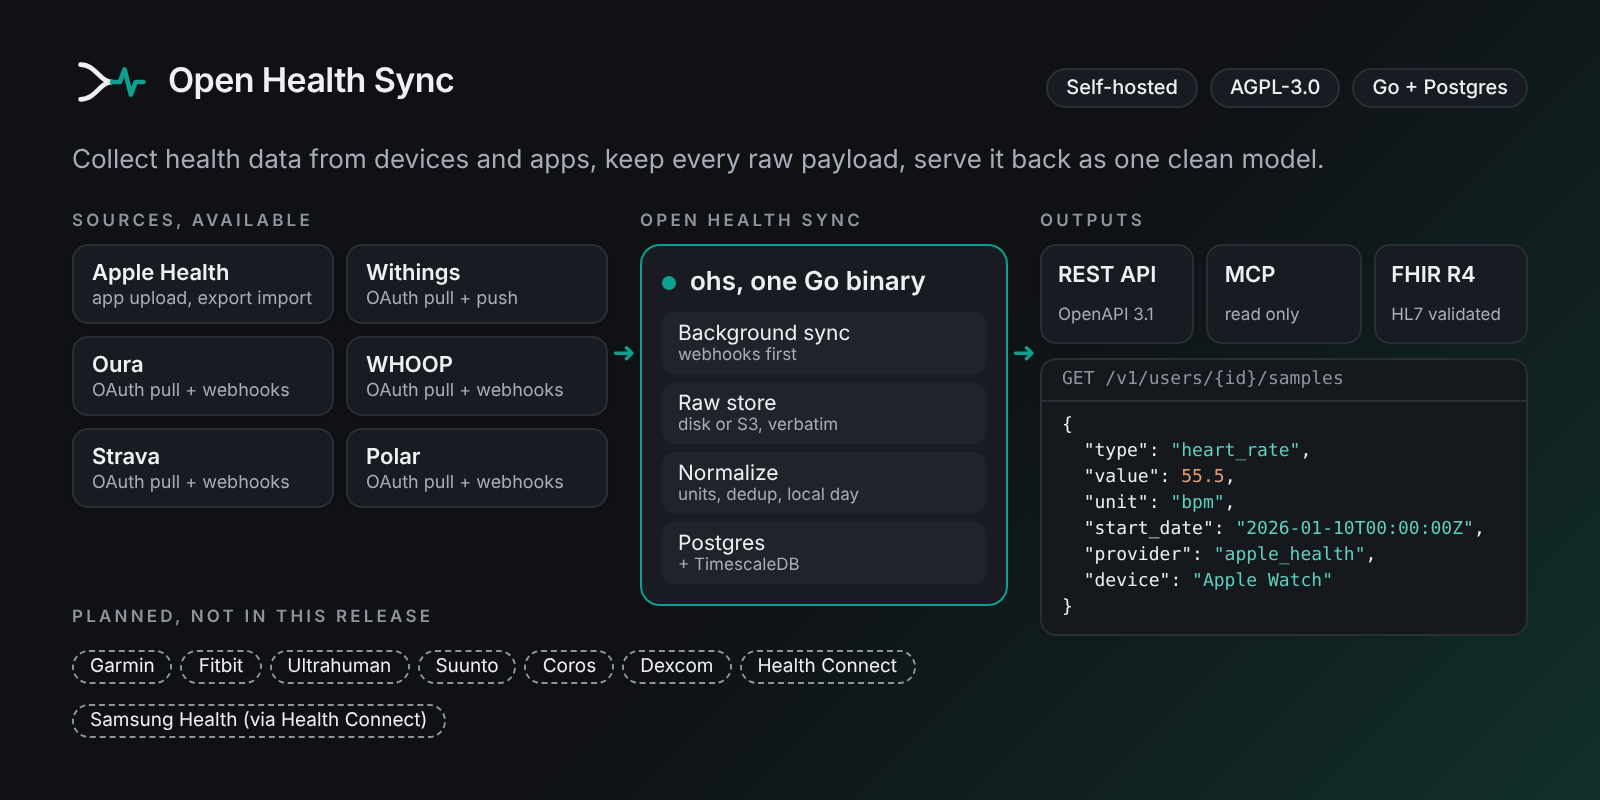
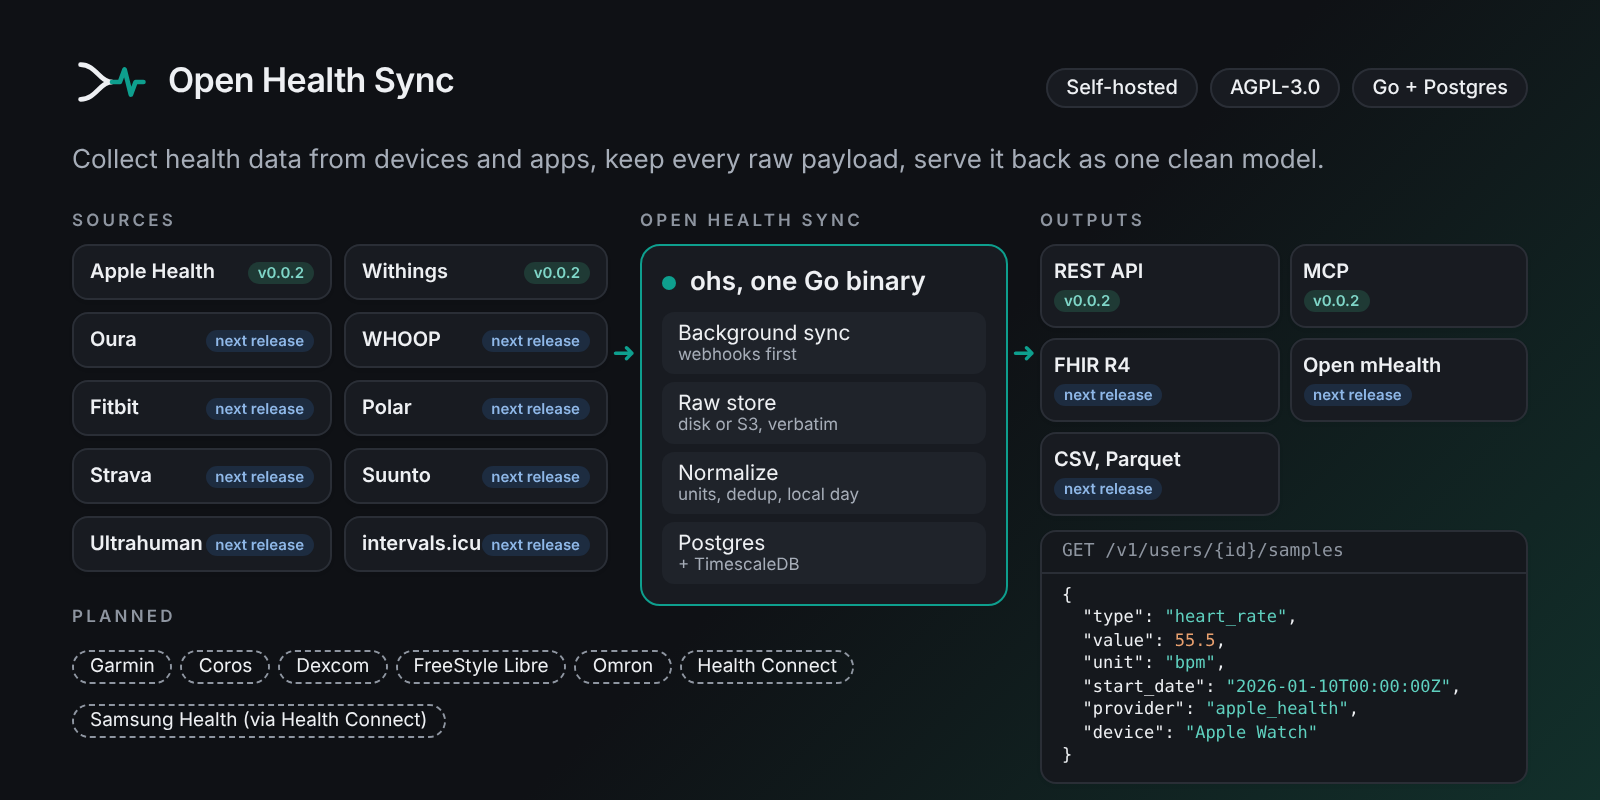
docs(readme): ten sources after #34, Garmin still planned, hero marks what is in v0.0.2

diff --git a/README.md b/README.md
@@ -1,7 +1,7 @@
 <a href="#quickstart">
 <picture>
   <source media="(prefers-color-scheme: dark)" srcset="docs/assets/readme/hero-dark.png">
-  <img src="docs/assets/readme/hero-light.png" width="100%" alt="Open Health Sync: six available sources (Apple Health, Withings, Oura, WHOOP, Strava, Polar) flow into one Go binary (background sync, raw store, normalize, Postgres) and out as a REST API, a read-only MCP server and FHIR R4. Garmin, Fitbit, Ultrahuman, Suunto, Coros, Dexcom, Health Connect and Samsung Health via Health Connect are listed as planned, not in this release. The JSON shown is a real heart rate sample read back from the API.">
+  <img src="docs/assets/readme/hero-light.png" width="100%" alt="Open Health Sync: ten sources flow into one Go binary (background sync, raw store, normalize, Postgres). Apple Health and Withings are in v0.0.2; Oura, WHOOP, Fitbit, Polar, Strava, Suunto, Ultrahuman and intervals.icu ship in the next release. Outputs: REST API and read-only MCP in v0.0.2; FHIR R4, Open mHealth and CSV/Parquet exports in the next release. Garmin, Coros, Dexcom, FreeStyle Libre, Omron, Health Connect and Samsung Health via Health Connect are planned. The JSON shown is a real heart rate sample read back from the API.">
 </picture>
 </a>
 
@@ -11,7 +11,7 @@
 
 ### One open API for wearable and health data. On your own server.
 
-Apple Health, Withings, Oura, WHOOP, Strava and Polar in.<br>
+Apple Health, Withings, Oura, WHOOP, Fitbit, Polar, Strava, Suunto, Ultrahuman and intervals.icu in.<br>
 One clean model out, over REST, a read-only MCP server for AI agents, and FHIR R4.<br>
 Free, one Go binary plus Postgres, runs on a Raspberry Pi.
 
@@ -29,8 +29,11 @@ Free, one Go binary plus Postgres, runs on a Raspberry Pi.
 <a href="docs/connectors/whoop.md"><img alt="WHOOP: next release" src="https://img.shields.io/badge/WHOOP-next_release-3b82c4?style=flat-square"></a>
 <a href="docs/connectors/strava.md"><img alt="Strava: next release" src="https://img.shields.io/badge/Strava-next_release-3b82c4?style=flat-square"></a>
 <a href="docs/connectors/polar.md"><img alt="Polar: next release" src="https://img.shields.io/badge/Polar-next_release-3b82c4?style=flat-square"></a>
+<a href="docs/connectors/fitbit.md"><img alt="Fitbit: next release" src="https://img.shields.io/badge/Fitbit-next_release-3b82c4?style=flat-square"></a>
+<a href="docs/connectors/suunto.md"><img alt="Suunto: next release" src="https://img.shields.io/badge/Suunto-next_release-3b82c4?style=flat-square"></a>
+<a href="docs/connectors/ultrahuman.md"><img alt="Ultrahuman: next release" src="https://img.shields.io/badge/Ultrahuman-next_release-3b82c4?style=flat-square"></a>
+<a href="docs/connectors/intervals-icu.md"><img alt="intervals.icu: next release" src="https://img.shields.io/badge/intervals.icu-next_release-3b82c4?style=flat-square"></a>
 <a href="docs/connectors/README.md"><img alt="Garmin: planned" src="https://img.shields.io/badge/Garmin-planned-8a8f98?style=flat-square"></a>
-<a href="docs/connectors/README.md"><img alt="Fitbit: planned" src="https://img.shields.io/badge/Fitbit-planned-8a8f98?style=flat-square"></a>
 <a href="docs/connectors/README.md"><img alt="Health Connect: planned" src="https://img.shields.io/badge/Health_Connect-planned-8a8f98?style=flat-square"></a>
 <a href="docs/connectors/README.md"><img alt="Dexcom: planned" src="https://img.shields.io/badge/Dexcom-planned-8a8f98?style=flat-square"></a>
 </p>
@@ -55,7 +58,7 @@ clinical software.
 <tr>
 <td width="33%" valign="top">
 
-**🔌 Six sources, one model**<br>
+**🔌 Ten sources, one model**<br>
 Every provider maps into the same records, with one unit per quantity (UCUM, LOINC). Heart rate
 is `bpm`, whatever the source called it.
 
@@ -107,11 +110,11 @@ Provider deletions are honored too.
 |:---:|---|:---:|---|
 | ✅ | REST API (OpenAPI 3.1), read-only MCP server | ✅ | Apple Health, Withings |
 | 🔜 | FHIR R4 (Observations, checked with the HL7 validator) | 🔜 | Oura, WHOOP, Polar, Strava |
+| 🔜 | Open mHealth output ([docs](docs/open-mhealth.md)) | 🔜 | Fitbit, Suunto, Ultrahuman, intervals.icu |
 | 🔜 | Background sync and `/freshness` | 🔜 | Health app export import |
-| 🔜 | Open mHealth output ([docs](docs/open-mhealth.md)) | 🛠 | Garmin, Fitbit and more |
+| 🔜 | CSV and Parquet exports ([docs](docs/exports.md)) | 🛠 | Garmin |
 | 🛠 | Outgoing webhooks | 🛠 | Dexcom, FreeStyle Libre, Omron |
-| 🔜 | CSV and Parquet exports ([docs](docs/exports.md)) | 🛠 | Health Connect (Android) |
-| 🛠 | Swift, Kotlin, React Native and Flutter SDKs | | |
+| 🛠 | Swift, Kotlin, React Native and Flutter SDKs | 🛠 | Health Connect (Android) |
 
 A line moves up only when its pull request is merged, or its release is published. The 0.0.2
 image does not have the 🔜 lines yet. Details per source:
@@ -120,7 +123,7 @@ image does not have the 🔜 lines yet. Details per source:
 ## What you can build
 
 - **A health app backend.** Your iOS app uploads HealthKit data, your users connect their
-  Oura, WHOOP or Withings accounts, and your app reads one API instead of six.
+  Oura, WHOOP or Withings accounts, and your app reads one API instead of ten.
 - **An AI agent over your own data.** Run it at home, connect your devices, and give your desktop
   agent a read-only view of your sleep, workouts and heart rate through MCP.
 - **A study that collects from participants' wearables.** Raw payloads kept for audit, hard
@@ -316,7 +319,7 @@ Data lives in the `pgdata` and `raw` volumes; `docker compose ... down` keeps th
 ```mermaid
 flowchart LR
   AH["Apple Health<br/>app upload, export import"] --> C
-  CL["Withings, Oura, WHOOP,<br/>Strava, Polar<br/>OAuth pull + webhooks"] --> C
+  CL["Withings, Oura, WHOOP, Fitbit,<br/>Polar, Strava, Suunto,<br/>Ultrahuman, intervals.icu<br/>OAuth pull + webhooks"] --> C
   C["collect / ingest"] --> R[("raw store<br/>disk or S3")]
   R --> E["ETL<br/>normalize, dedup,<br/>units, local-day summaries"]
   E --> P[("Postgres<br/>+ TimescaleDB")]
@@ -327,8 +330,8 @@ flowchart LR
 
 1. **Collect.** Your iOS app posts HealthKit data to `POST /v1/ingest/apple-health` as gzip
    NDJSON parts, with a user token that has the `upload` scope and the headers `X-OHS-Type`,
-   `X-OHS-Day`, `X-OHS-Batch` and `X-OHS-Part`. Withings, Oura, WHOOP, Strava and Polar are
-   pulled when they send a webhook (only what changed), with a backstop pull on a schedule.
+   `X-OHS-Day`, `X-OHS-Batch` and `X-OHS-Part`. The cloud providers (Withings, Oura, WHOOP, Fitbit and
+   the others) are pulled when they send a webhook (only what changed), with a backstop pull on a schedule.
 2. **Keep the raw payload.** The part is written to the raw store first, then a job is queued in
    Postgres. The answer names the raw key and whether the part was a duplicate.
 3. **Normalize.** The `etl` role maps each line to the canonical model, converts units, drops
@@ -478,7 +481,7 @@ other rule depends on how you run it.
 <summary><b>What does it cost?</b></summary>
 
 Nothing. The server is free and open source. You pay for wherever you run it, which can be a
-Raspberry Pi 5 with 4 GB. Each cloud provider (Withings, Oura, WHOOP, Strava, Polar) needs your
+Raspberry Pi 5 with 4 GB. Each cloud provider (Withings, Oura, WHOOP, Fitbit and the others) needs your
 own developer application, registered with the vendor.
 
 </details>
@@ -529,7 +532,8 @@ software.
 
 ## Status and roadmap
 
-v0.0.2 is the latest release. The Oura, WHOOP, Strava and Polar connectors, FHIR R4 output,
+v0.0.2 is the latest release. The Oura, WHOOP, Strava, Polar, Fitbit, Suunto, Ultrahuman and intervals.icu connectors,
+FHIR R4 and Open mHealth output, CSV and Parquet exports,
 Health app export import, background sync and sample compression are on `main` and ship in the next release. What
 changed: [CHANGELOG.md](CHANGELOG.md). Install notes and the full list of limitations: [release notes](docs/release-notes/v0.0.2.md).
 
